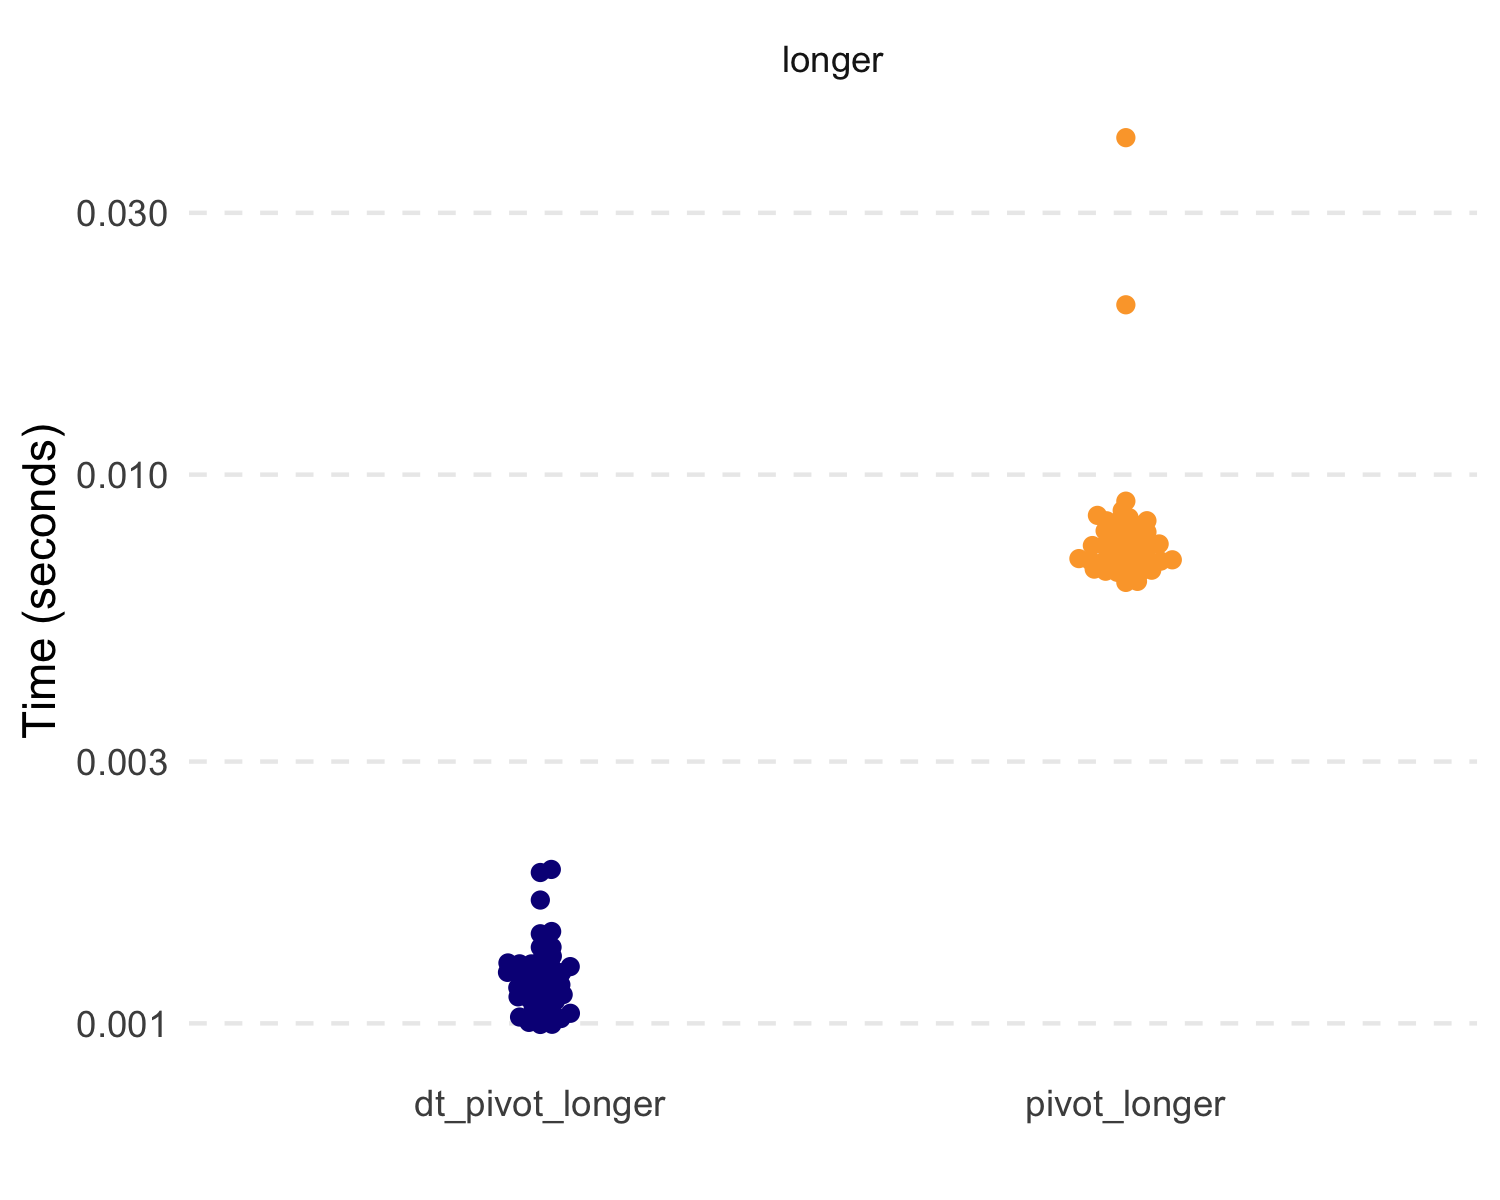
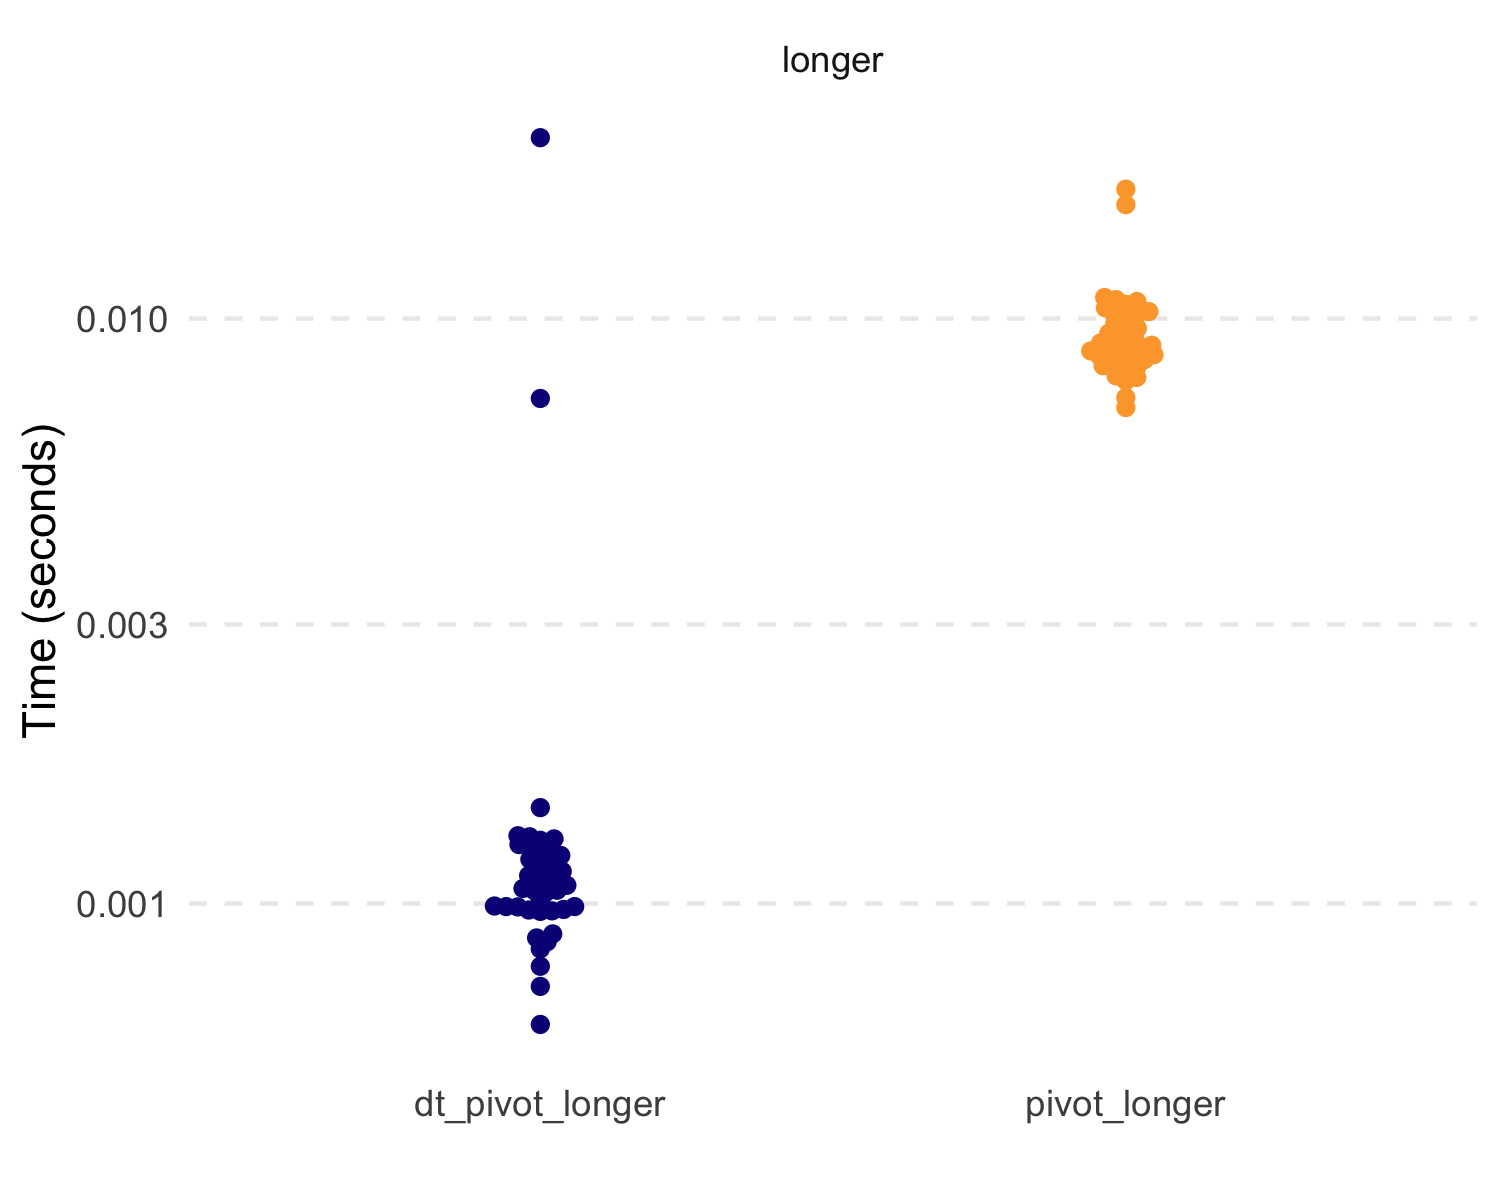
updated readme

diff --git a/README.md b/README.md
@@ -1,7 +1,7 @@
 
 <!-- README.md is generated from README.Rmd. Please edit that file -->
 
-# `tidyfast v0.2.3` <img src="man/figures/tidyfast_hex.png" align="right" width="30%" height="30%" />
+# `tidyfast v0.3.0` <img src="man/figures/tidyfast_hex.png" align="right" width="30%" height="30%" />
 
 <!-- badges: start -->
 
@@ -183,6 +183,18 @@ dt_unnest(nested, col = data)
 #>  99998: thing2,thing2,thing2,thing2,thing2,thing2,... 99994
 #>  99999: thing2,thing2,thing2,thing2,thing2,thing2,... 99996
 #> 100000: thing2,thing2,thing2,thing2,thing2,thing2,... 99998
+#>                          data
+#>      1: <data.table[19638x5]>
+#>      2: <data.table[19638x5]>
+#>      3: <data.table[19638x5]>
+#>      4: <data.table[19638x5]>
+#>      5: <data.table[19638x5]>
+#>     ---                      
+#>  99996: <data.table[20073x5]>
+#>  99997: <data.table[20073x5]>
+#>  99998: <data.table[20073x5]>
+#>  99999: <data.table[20073x5]>
+#> 100000: <data.table[20073x5]>
 ```
 
 When our list columns don’t have data tables (as output from
@@ -216,13 +228,13 @@ highlighted below. Notably, the timings are without the `nested1` and
     #> # A tibble: 2 x 3
     #>   expression   median mem_alloc
     #>   <chr>      <bch:tm> <bch:byt>
-    #> 1 dt_nest      3.85ms    2.88MB
-    #> 2 group_nest   8.21ms    5.39MB
+    #> 1 dt_nest      3.42ms    2.88MB
+    #> 2 group_nest   5.62ms    2.57MB
     #> # A tibble: 2 x 3
     #>   expression   median mem_alloc
     #>   <chr>      <bch:tm> <bch:byt>
-    #> 1 dt_unnest    4.77ms     5.1MB
-    #> 2 unnest       8.54ms    6.06MB
+    #> 1 dt_unnest    7.24ms   11.68MB
+    #> 2 unnest      10.44ms    5.77MB
 
 ## Pivoting
 
@@ -296,10 +308,10 @@ efficient.
     #> # A tibble: 4 x 3
     #>   expression        median mem_alloc
     #>   <chr>           <bch:tm> <bch:byt>
-    #> 1 dt_pivot_longer   1.21ms  996.42KB
-    #> 2 pivot_longer       7.3ms    2.48MB
-    #> 3 dt_pivot_wider    8.87ms    1.86MB
-    #> 4 pivot_wider       8.08ms    2.09MB
+    #> 1 dt_pivot_longer   1.06ms  996.21KB
+    #> 2 pivot_longer      8.99ms    2.66MB
+    #> 3 dt_pivot_wider   10.92ms    1.86MB
+    #> 4 pivot_wider      20.32ms    1.95MB
 
 ### If Else
 
@@ -348,9 +360,9 @@ built on `data.table::fifelse()`.
     #> # A tibble: 3 x 3
     #>   expression     median mem_alloc
     #>   <chr>        <bch:tm> <bch:byt>
-    #> 1 case_when     138.8ms   148.8MB
-    #> 2 dt_case_when   39.9ms    34.3MB
-    #> 3 fifelse        38.1ms    34.3MB
+    #> 1 case_when     135.7ms   148.8MB
+    #> 2 dt_case_when   36.7ms    34.3MB
+    #> 3 fifelse        34.9ms    34.3MB
 
 ## Fill
 
@@ -458,8 +470,8 @@ marks3 <-
     #> # A tibble: 2 x 3
     #>   expression                                    median mem_alloc
     #>   <bch:expr>                                  <bch:tm> <bch:byt>
-    #> 1 tidyr::fill(dplyr::group_by(df3, id), x, y)   44.8ms    43.1MB
-    #> 2 tidyfast::dt_fill(dt3, x, y, id = list(id))   26.9ms    29.1MB
+    #> 1 tidyr::fill(dplyr::group_by(df3, id), x, y)   60.8ms    30.7MB
+    #> 2 tidyfast::dt_fill(dt3, x, y, id = list(id))   23.3ms    29.1MB
 
 ## Separate
 
@@ -501,9 +513,9 @@ than `tidyr::separate()`.
     #> # A tibble: 3 x 3
     #>   expression            median mem_alloc
     #>   <chr>               <bch:tm> <bch:byt>
-    #> 1 separate               5.91s    3.89GB
-    #> 2 dt_separate          108.1ms   22.92MB
-    #> 3 dt_separate-mutable  94.75ms   19.09MB
+    #> 1 separate               364ms    11.8MB
+    #> 2 dt_separate            113ms    30.6MB
+    #> 3 dt_separate-mutable    103ms    26.7MB
 
 ## Count and Uncount
 
